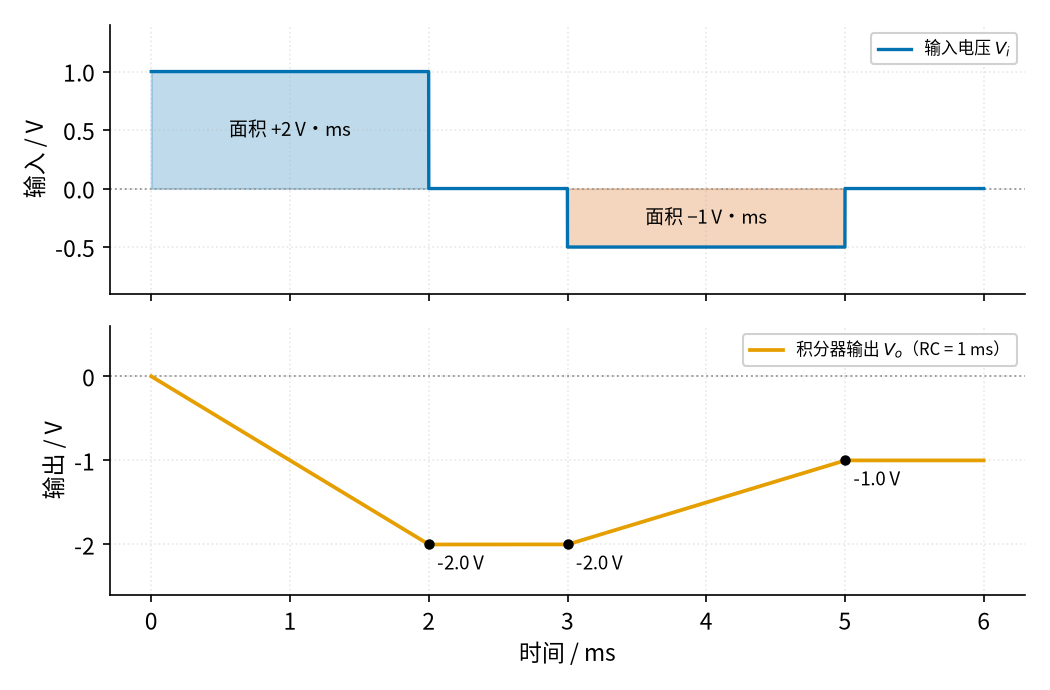
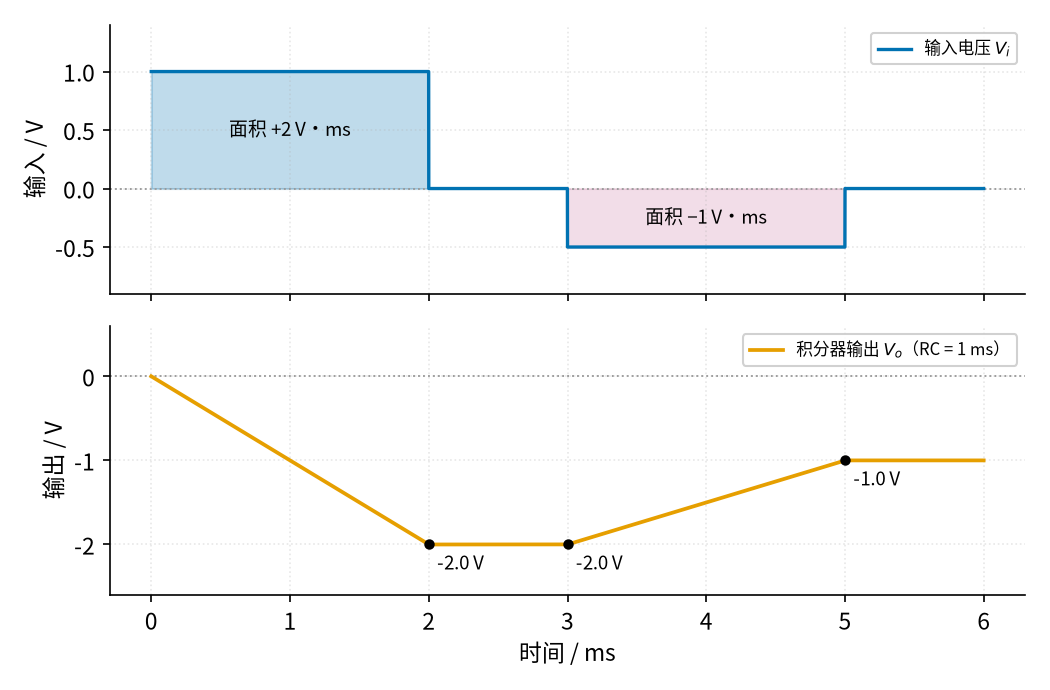
fix: 积分电路 复核修改

Changed region(s): [[0.5181, 0.2739, 0.8229, 0.3652]]

diff --git a/code/figs/12_figs.py b/code/figs/12_figs.py
@@ -56,7 +56,7 @@ fig, (a0, a1) = plt.subplots(2, 1, figsize=fs.SIZE["tall"], sharex=True)
 tm = t * 1e3
 a0.plot(tm, vin, **fs.LS["vin"], label="输入电压 $V_i$")
 a0.fill_between(tm, 0, vin, where=vin > 0, color=fs.C["vin"], alpha=0.25)
-a0.fill_between(tm, 0, vin, where=vin < 0, color=fs.C["bad"], alpha=0.25)
+a0.fill_between(tm, 0, vin, where=vin < 0, color=fs.C["third"], alpha=0.25)  # 负面积不是错误，用红紫色
 a0.text(1.0, 0.45, "面积 +2 V·ms", ha="center", fontsize=9)
 a0.text(4.0, -0.3, "面积 −1 V·ms", ha="center", fontsize=9)
 print("[数值] 面积 +2 V·ms（1 V × 2 ms），−1 V·ms（−0.5 V × 2 ms）")

diff --git a/12-integrator/page1.md b/12-integrator/page1.md
@@ -33,7 +33,7 @@
 
 ## 图：面积变成电压
 
-下面这张图把「攒」画得最直白。上半部分是输入：先 +1 V 维持 2 ms，再 0 V 歇 1 ms，然后 −0.5 V 维持 2 ms。蓝色阴影（输入为正的部分）和浅朱红色阴影（输入为负的部分）就是「输入曲线和 0 V 线围成的面积」，单位是「伏·毫秒」。
+下面这张图把「攒」画得最直白。上半部分是输入：先 +1 V 维持 2 ms，再 0 V 歇 1 ms，然后 −0.5 V 维持 2 ms。蓝色阴影（输入为正的部分）和浅红紫色阴影（输入为负的部分）就是「输入曲线和 0 V 线围成的面积」，单位是「伏·毫秒」。
 
 ![面积直觉](img/12_p1_1_area.png)
 
@@ -63,7 +63,7 @@
 
 1. **送入 ±1 V、500 Hz 方波**。通道 2 出现峰峰值 1 V 的三角波，输入为正时输出往下走，输入为负时往上走，就是 图 12-p1-3。
 2. **只改频率**。降到 250 Hz，每半个周期攒得久一倍，三角波长到 2 V 峰峰；升到 5 kHz，只剩 0.1 V 峰峰。积分电路对快信号「来不及攒」，所以它天然会把高频压小。
-3. **换成正弦波，调到约 159 Hz**。输出还是正弦波，幅度和输入差不多一样大，但整个波形错开了四分之一个周期：输入过零时输出最大，输入在波峰时输出正好过零。
+3. **换成正弦波，调到约 159 Hz**。输出还是正弦波，幅度和输入差不多一样大，但整个波形错开了四分之一个周期：输入过零时输出最大，输入在波峰时输出正好过零。159 Hz 是 $1/(2\pi RC)$ = 1/(2π × 10 kΩ × 100 nF)：电容对交流也有「阻碍」，叫**容抗**，大小是 $1/(2\pi f C)$ ，频率越高越小（这里直接用这个结论，推导超出本教程）。在 159 Hz 上容抗正好等于 R，积分器的「放大倍数」就是 1；频率每高一倍，容抗小一半，输出也小一半，这正是第 2 步「快信号来不及攒」的另一种说法。错开四分之一周期也是这里直接用的结论：输入为正的那半个周期里输出一直在往一个方向攒，所以输出的最高（或最低）点落在输入过零的时刻。
 4. **回到方波，把示波器时基拉到每格 0.1 s**。很多信号发生器的输出带着几十毫伏的直流偏移，假设是 20 mV。你会看到三角波一边振荡一边整体往下滑，大约 0.6 s 后整条线贴在 −13.5 V 附近不动了：运放饱和。这就是一句话总结里说的「隐患」。
 5. **在电容两端并一只 1 MΩ 电阻，再看一次**。三角波不再往下滑，而是停在中心约 −2 V 的位置上继续振荡。这只电阻给直流开了一条「泄放口」，下一页会算出这 −2 V 是怎么来的。
 
